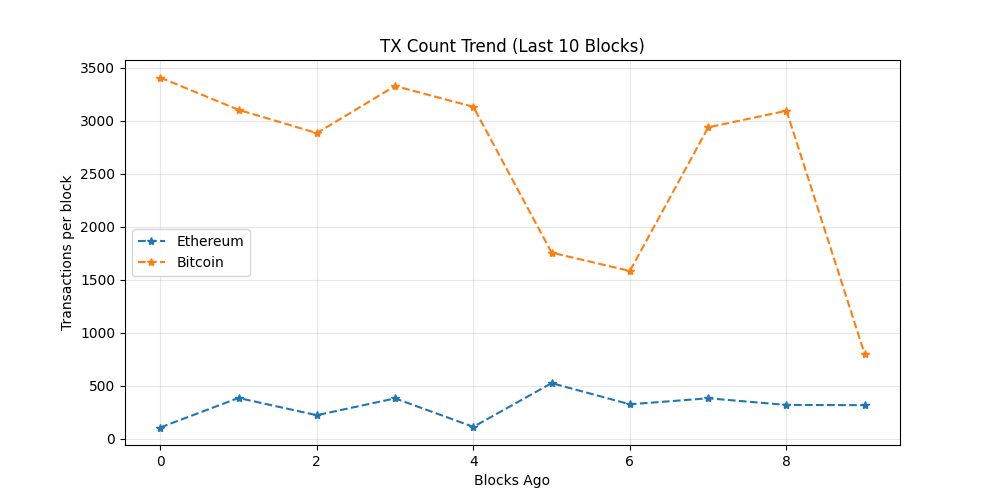
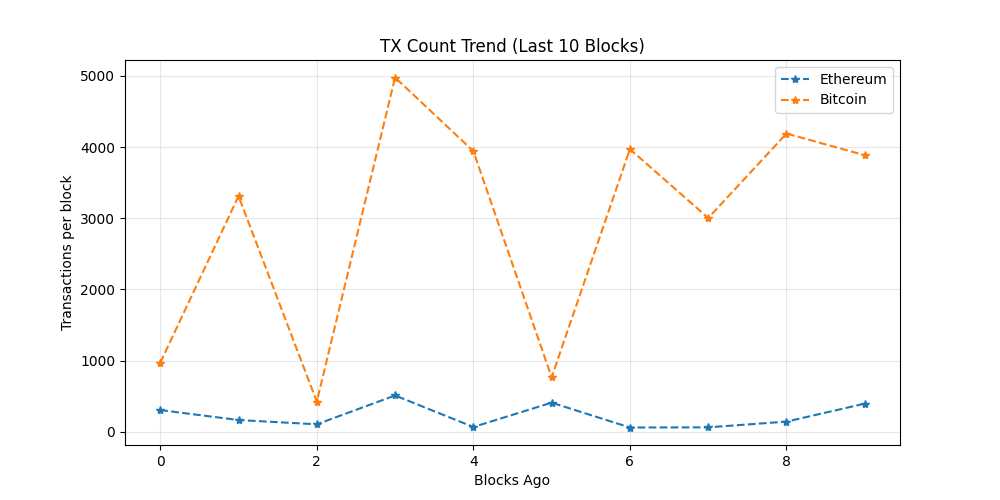
chore: update on-chain dashboard

diff --git a/README.md b/README.md
@@ -19,7 +19,7 @@ The README itself acts as the dashboard and is regenerated automatically on a 6 
 demonstrating a production-style, infrastructure-focused observability workflow rather
 than a traditional UI-driven approach.
 
-_Last updated: 2026-02-28 18:49 UTC_
+_Last updated: 2026-03-01 03:23 UTC_
 
 ## API Usage (GetBlock.io)
 - Calls used: **24**
@@ -27,8 +27,8 @@ _Last updated: 2026-02-28 18:49 UTC_
 ## Network Metrics
 | Chain | Block Height | TX Count | TPS (10 blk avg) | Block Util | Avg Fee |
 |------|-------------|----------|------------------|------------|---------|
-| Ethereum | 24557320 | 315 | 26.25 | 45.69% | 0.1 Gwei |
-| Bitcoin | 938755 | 795 | 13.25 | 99.8% | N/A |
+| Ethereum | 24559876 | 395 | 32.92 | 99.98% | 0.0 Gwei |
+| Bitcoin | 938804 | 3885 | 185.0 | 99.79% | N/A |
 
 ## Visuals
 ### Transactions Trend
@@ -43,7 +43,7 @@ _Last updated: 2026-02-28 18:49 UTC_
 ## Whale Alerts (latest block)
 - Transaction hashes are truncated for readability.
 - Full hashes are available in `dashboards/metrics.json`
-No whale-sized transfers detected in latest blocks.
+- Bitcoin | 137.53 BTC | `27386ed1cff6…`
 
 ## Run locally
 
